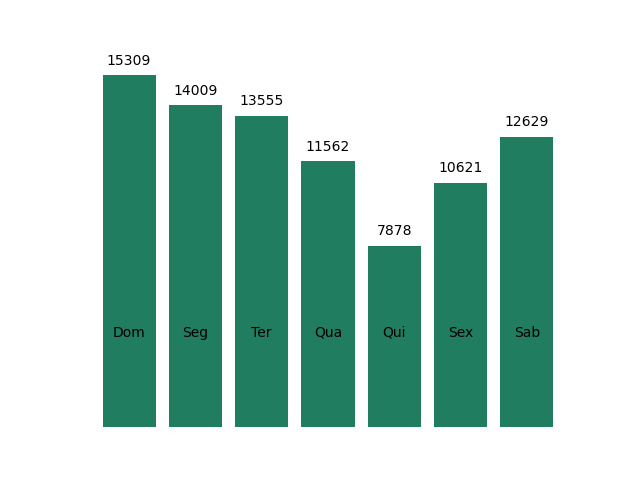
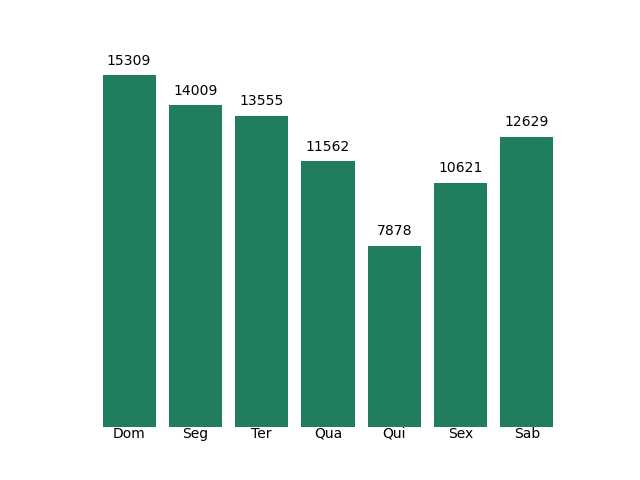
updt, tentei implementar o gerador de cupom para todos clientes mas deu erro

diff --git a/page_flask/GeraGrafico.py b/page_flask/GeraGrafico.py
@@ -6,7 +6,7 @@ def gerarGraficos(filename=str, x = list , heights = list ):
     for i, v in enumerate(heights):
         plt.text(i, v + 0.03*max(heights), str(int(v)), ha='center')
     for i, v in enumerate(x):
-        plt.text(i, min(heights)/2, str(v), ha='center')
+        plt.text(i, -max(heights)*0.03, str(v), ha='center')
     
     plt.gca().set_axis_off()
 
